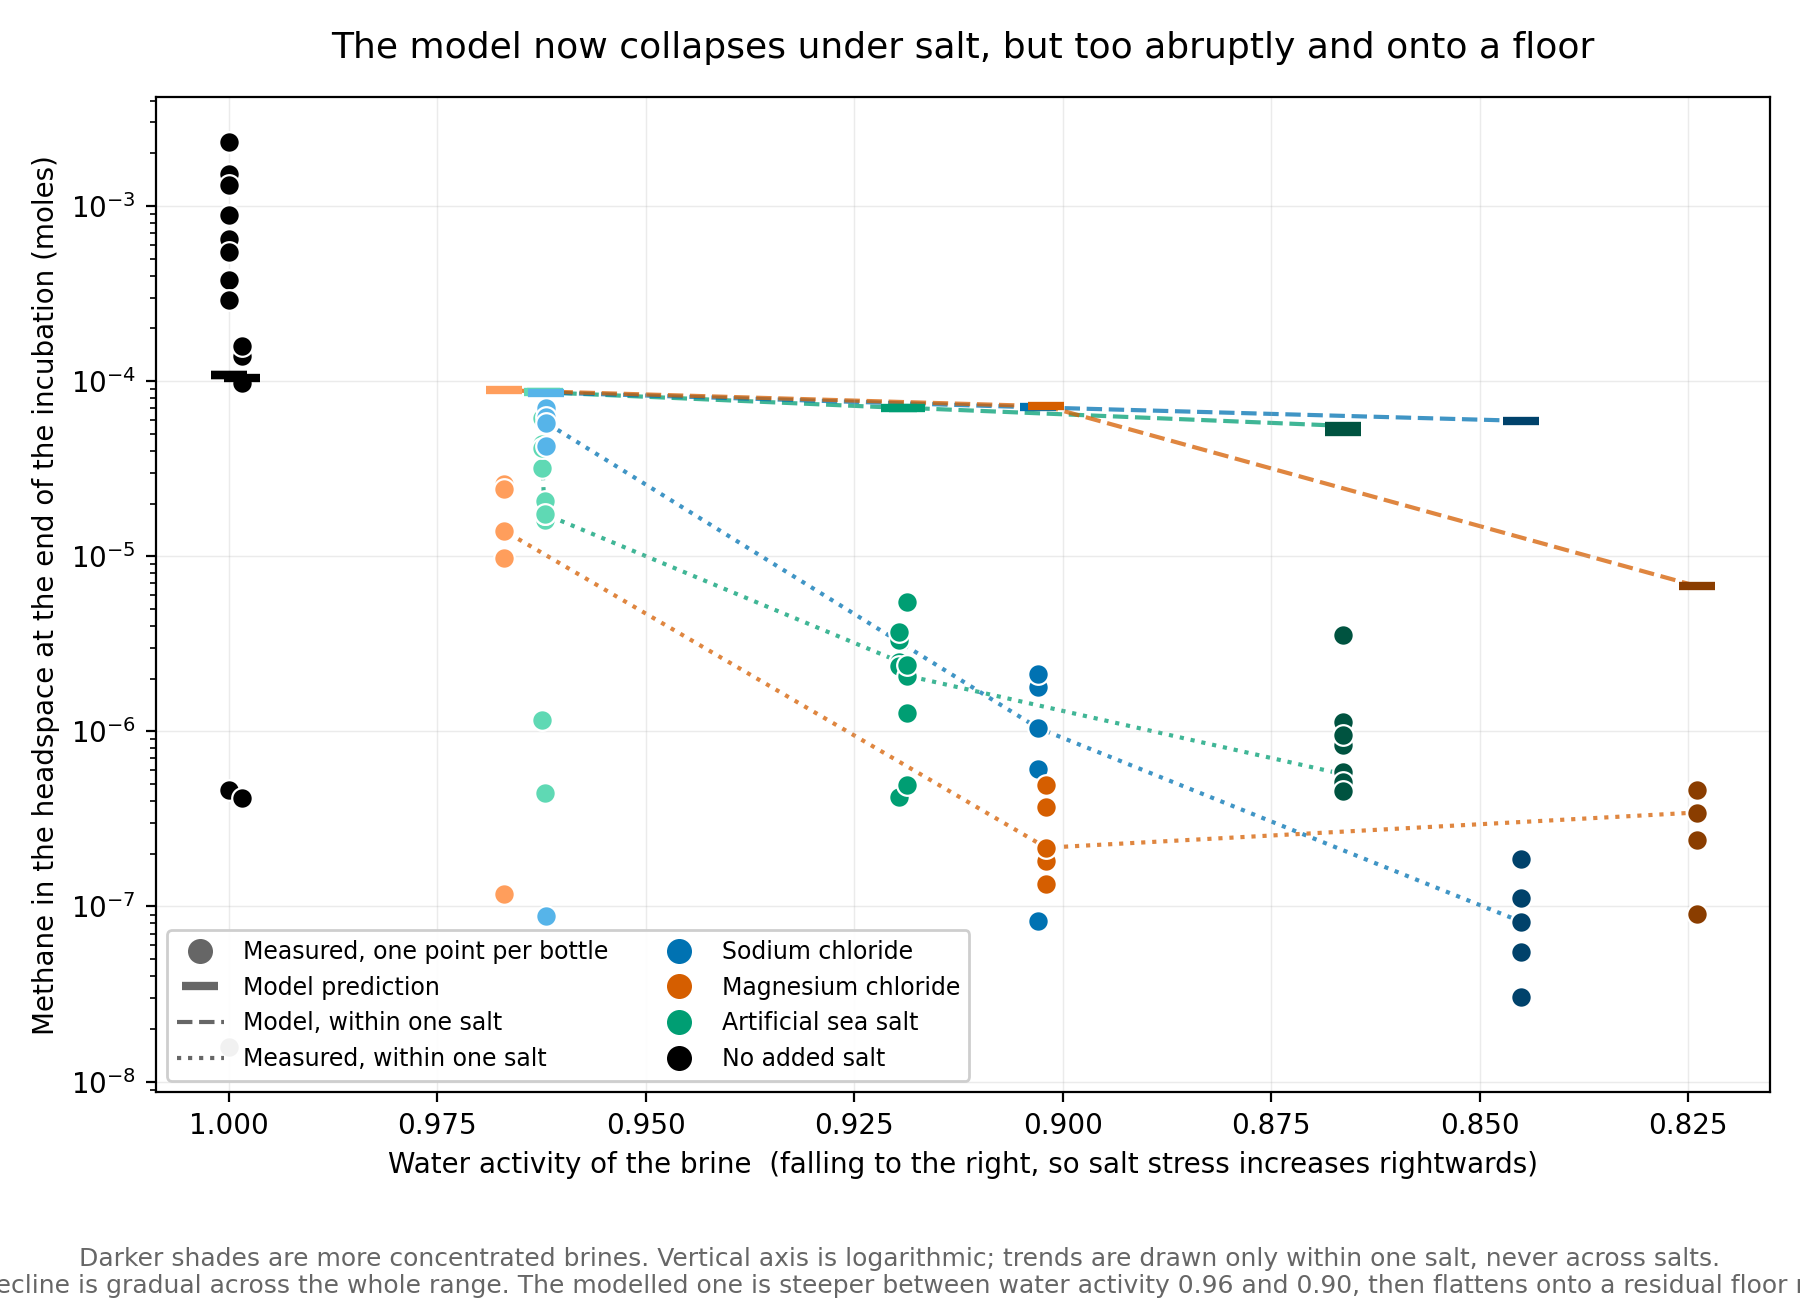
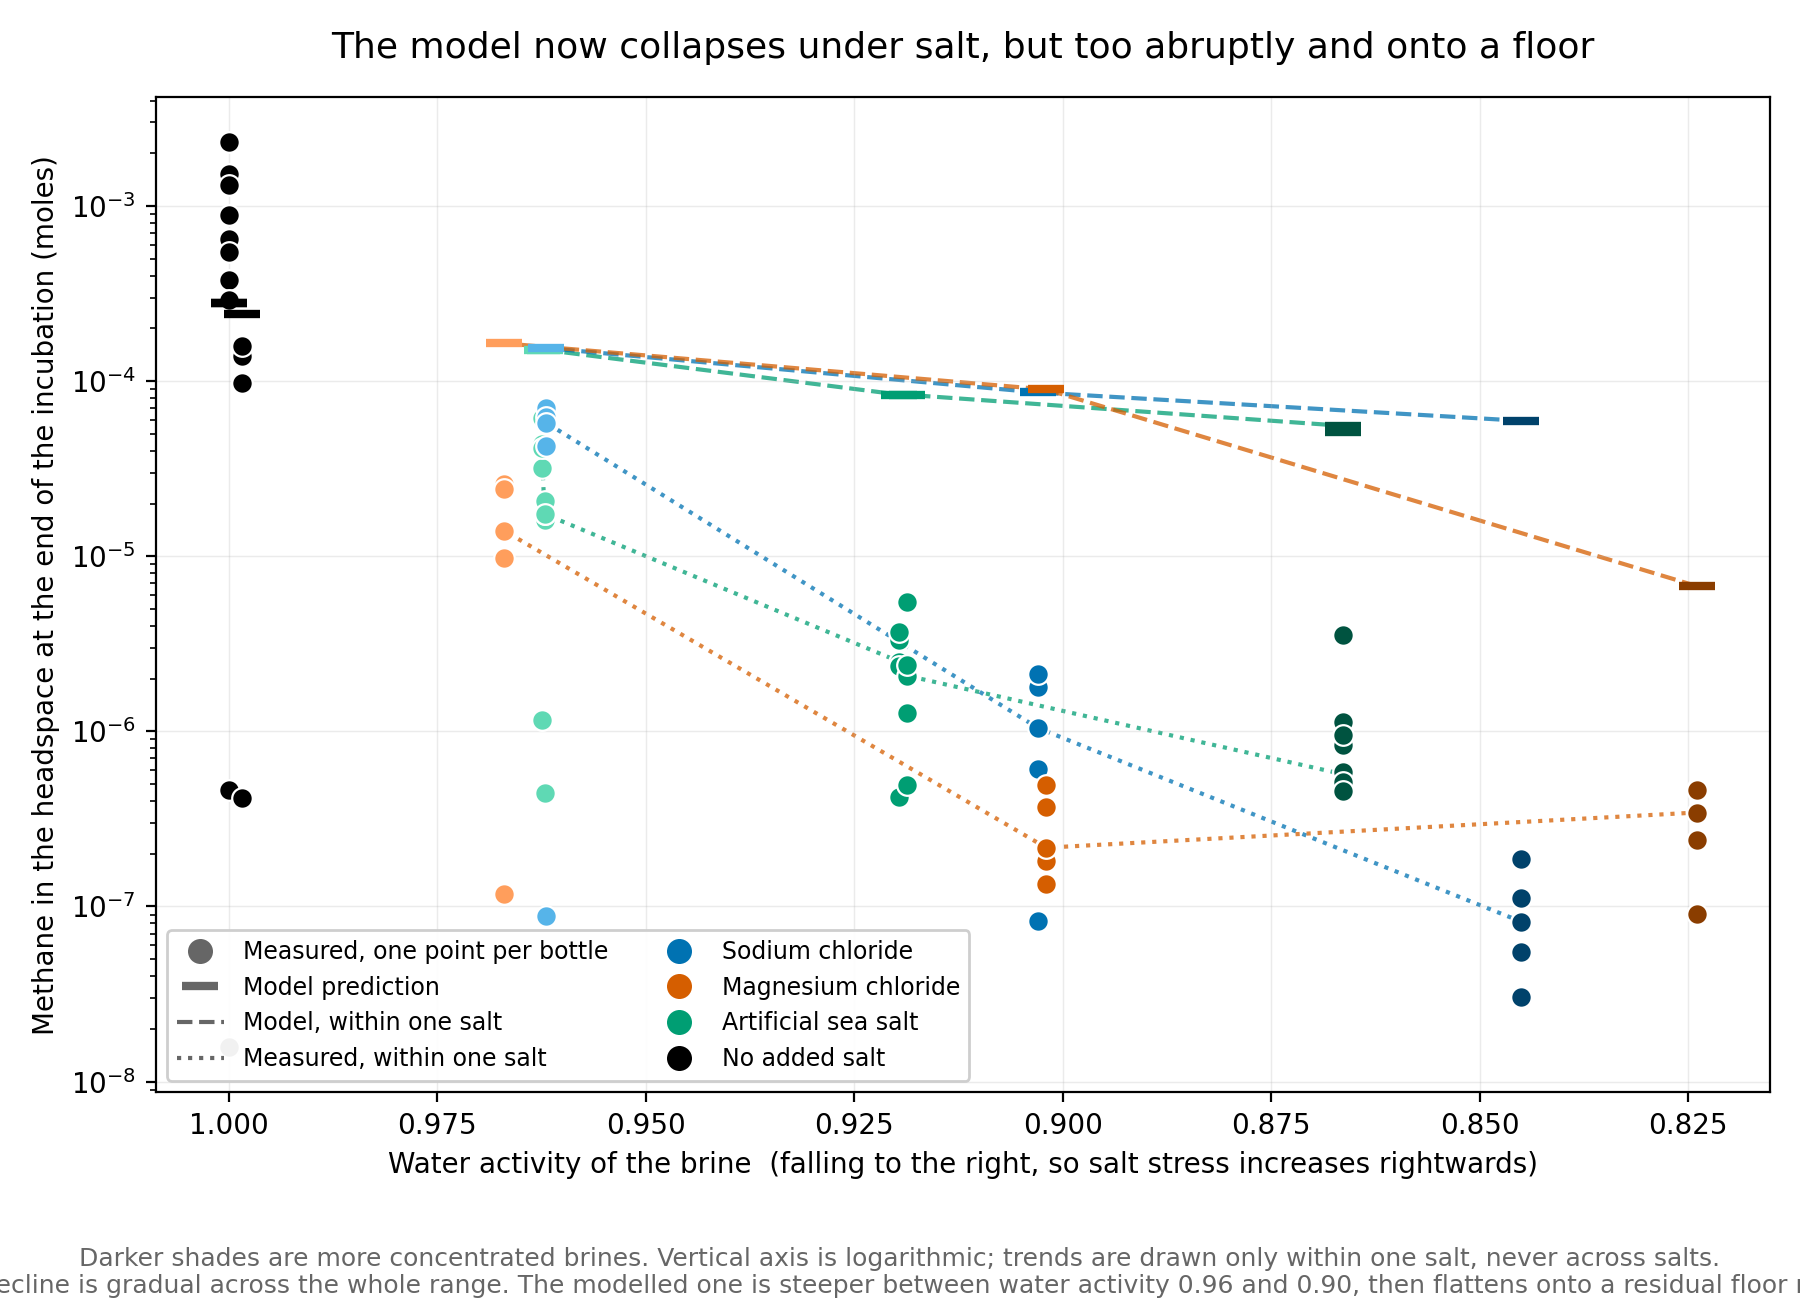
Raise acetoclastic H+_below Ki so bottle controls can use acetate.
Controls bank ~0.03 M acetate at pH ~7.9 while CH4 stalls; the network
Ki of 2.88e-7 half-inhibits near pH 6.5 and leaves f~0.04 at bottle pH.
Comparison cellulose decks now use Ki=3.16e-8 (half at pH ~7.5).

diff --git a/src/pflotran_py/comparison/decks.py b/src/pflotran_py/comparison/decks.py
@@ -288,6 +288,13 @@ def main():
     extra = {}
     if args.cellulose_hydrolysis:
         extra["cellulose_hydrolysis"] = {}
+        # Bottle controls drift to pH ~7.9 while acetate accumulates. The
+        # network's H+_below Monod (Ki = 2.88e-7, half at pH ~6.5) then
+        # throttles acetoclastic methanogenesis to ~0.04, which is why control
+        # CH4 floors near 1e-4 mol with a full acetate pool. Half-inhibition
+        # near pH 7.5 (Ki = 3.16e-8) matches the upper edge of the usual
+        # acetoclast optimum without fitting methane.
+        extra["thresholds"] = {"h_plus_inhibition_3": 3.16e-8}
     if args.salinity_threshold is not None:
         extra["salinity_inhibition"] = {
             "species": "Cl-",

diff --git a/README.md b/README.md
@@ -564,7 +564,11 @@ and `--aw-inhibition-type ONE_MINUS_AW` with pathway-specific
 acetoclasts fail first under salt; literature ordering, not a methane fit),
 and pass each batch's **Pitzer** water activity as `FIXED_WATER_ACTIVITY`
 so inhibition is not keyed on PFLOTRAN's ideal Raoult estimate (which is too
-high for Mg brines). Rebuild the container after pulling sandbox Fortran
+high for Mg brines). With `--cellulose-hydrolysis`, the acetoclastic
+`H+_below` Monod Ki is also moved from 2.88×10⁻⁷ (half at pH ~6.5) to
+3.16×10⁻⁸ (half at pH ~7.5), matching the upper edge of the usual acetoclast
+optimum — otherwise bottle controls that drift to pH ~7.9 bank acetate and
+starve methane. Rebuild the container after pulling sandbox Fortran
 changes.
 
 ### Running it
